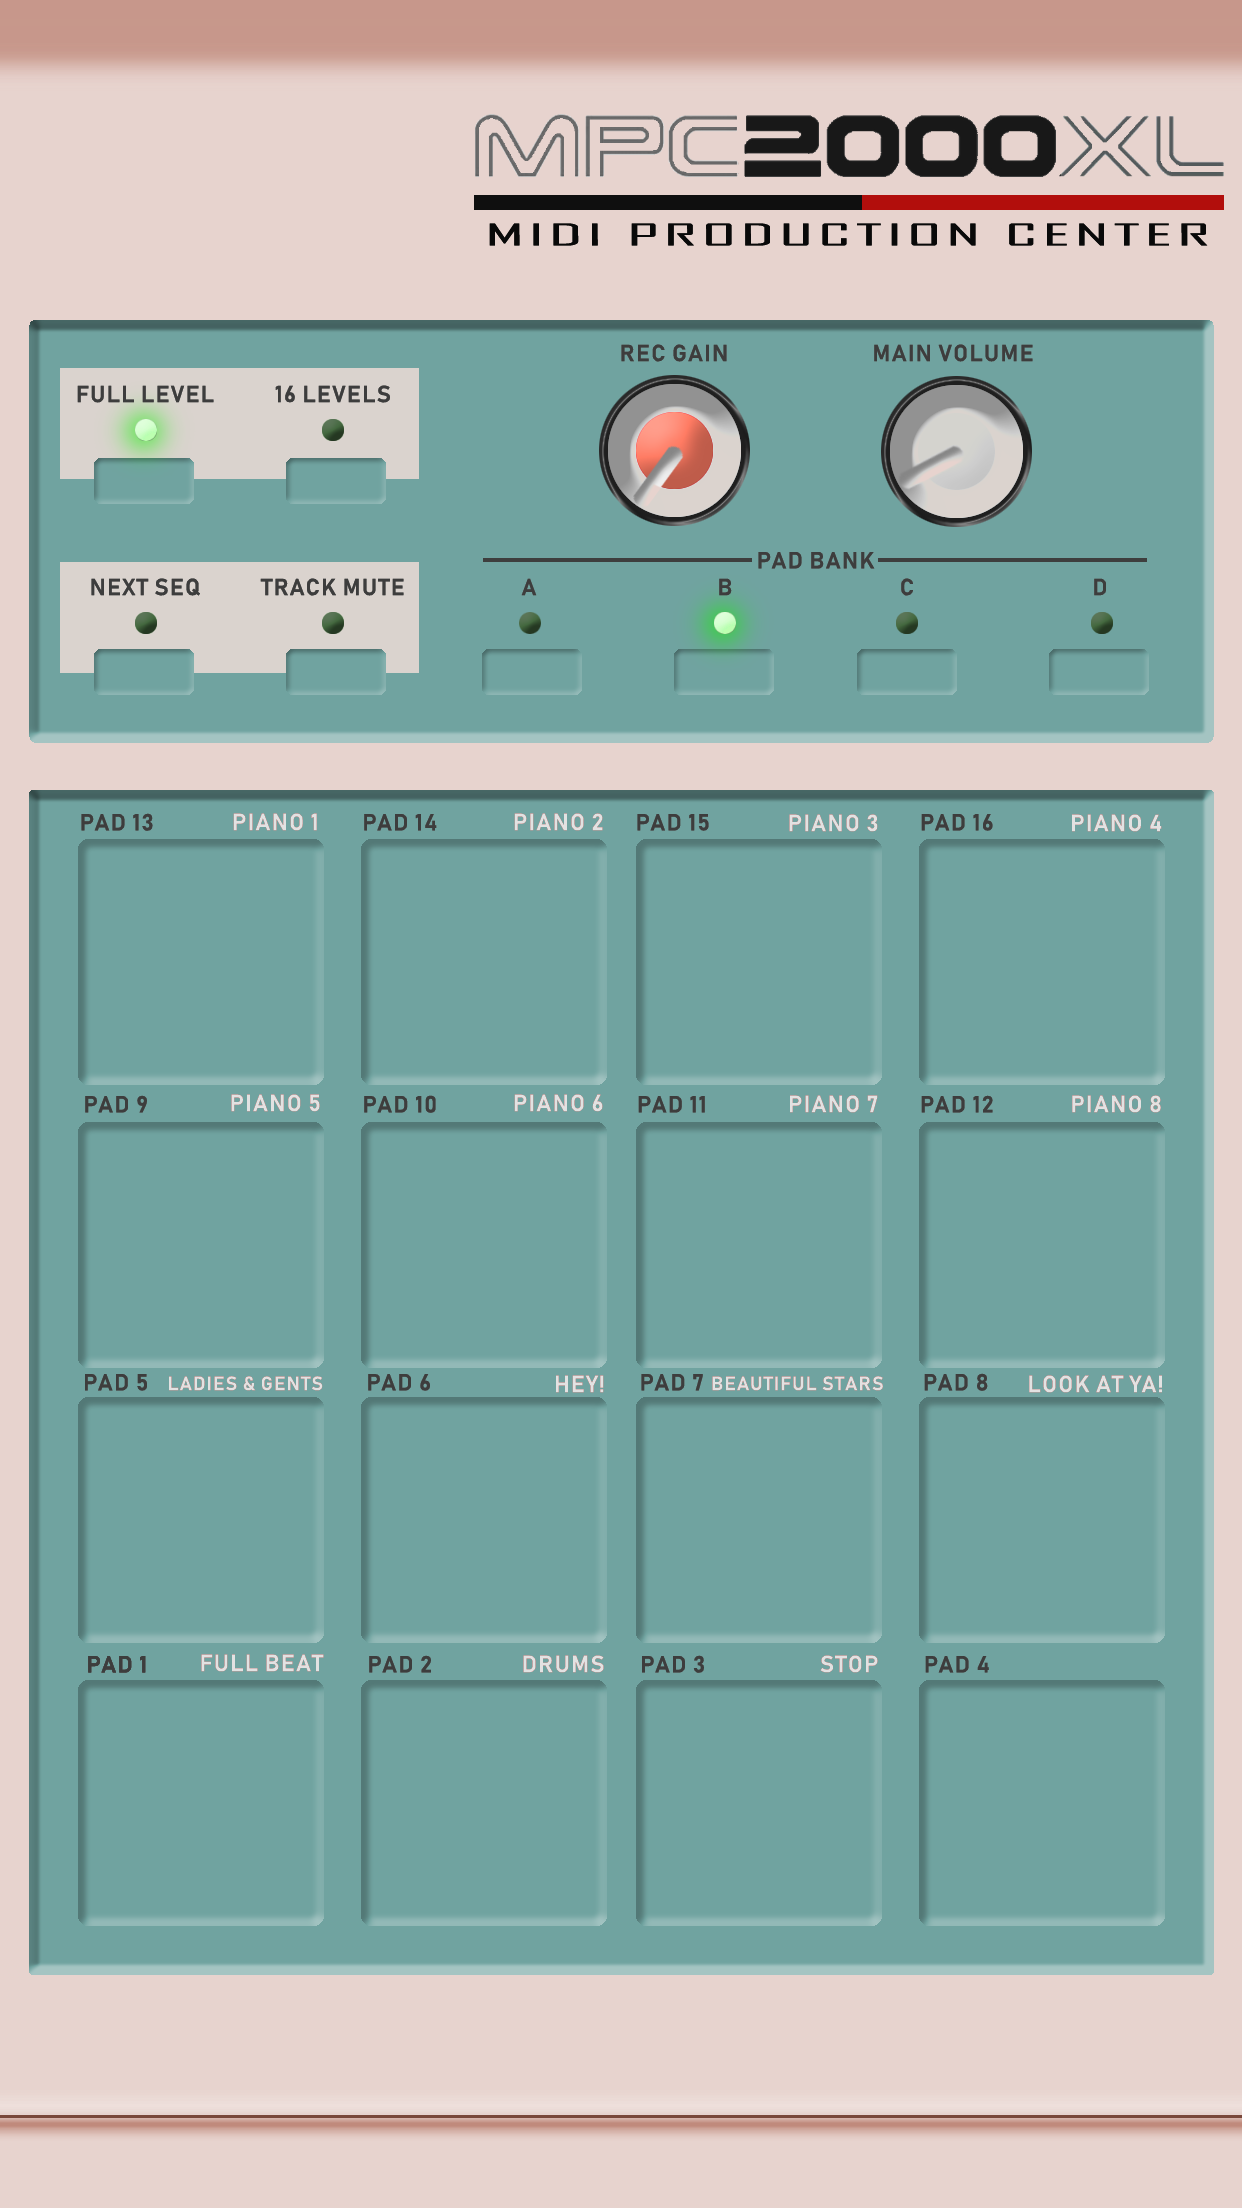
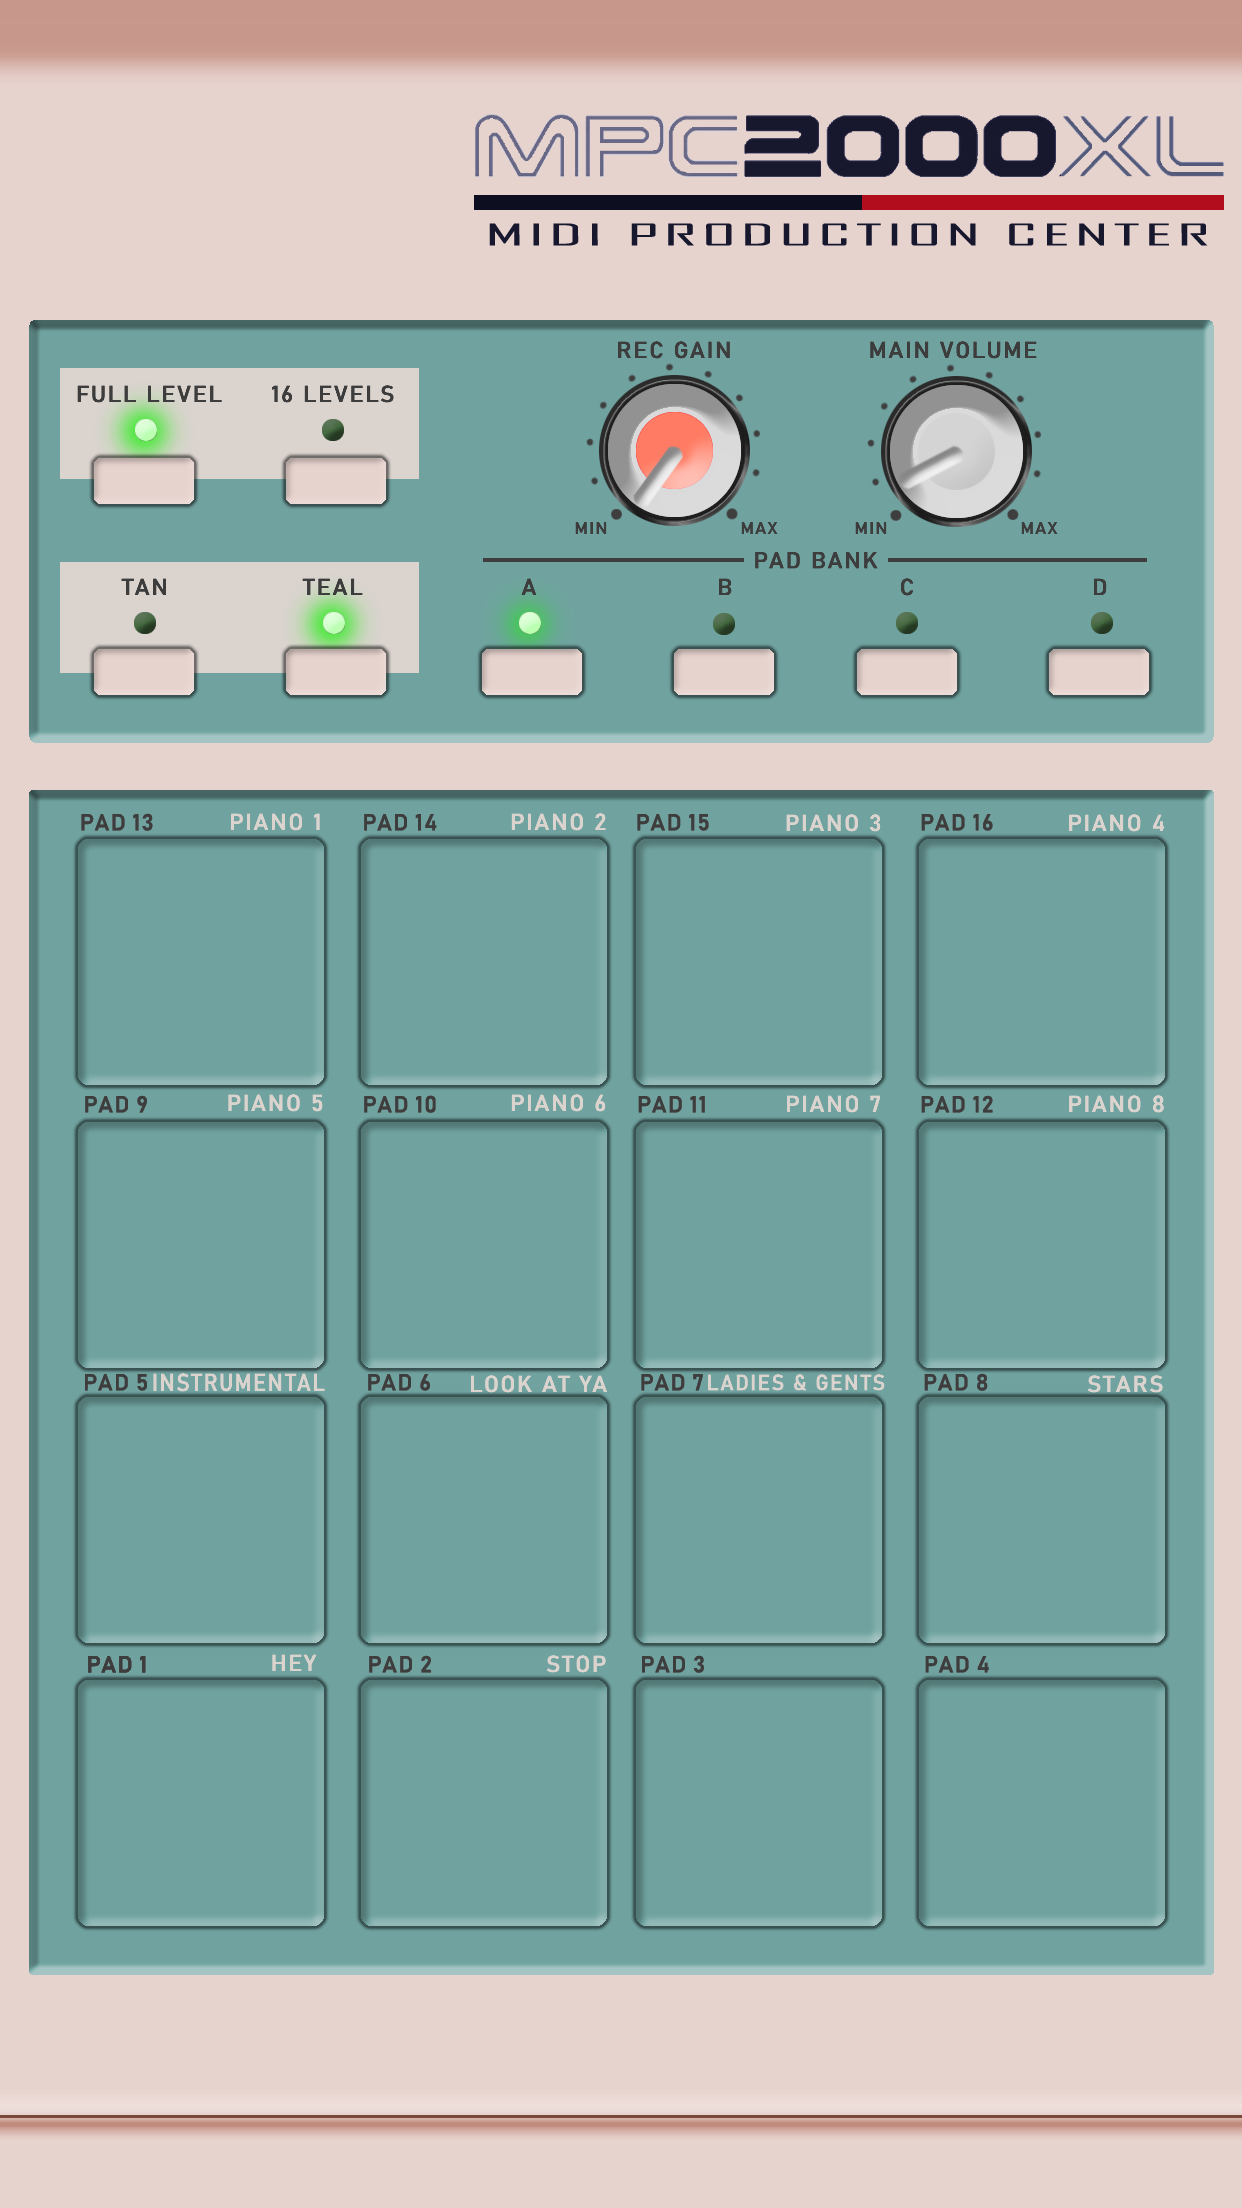
Add files via upload

diff --git a/index.html b/index.html
@@ -88,7 +88,7 @@
 <div class="container">
     <button class="image-button" id="buttonImage1"></button>
     <button class="image-button" id="buttonImage2"></button>
-    <img id="gridImage" src="AKAI MPC 2000 TEAL.png" alt="Grid Image" class="image">
+    <img id="gridImage" src="AKAI MPC 2000.png" alt="Grid Image" class="image">
     <div class="grid-container">
         <button class="grid-item" data-audio-index="0">1</button>
         <button class="grid-item" data-audio-index="1">2</button>
@@ -112,9 +112,9 @@
     let bufferList = [];
     let playingSource = {};
     let activeTouchIds = new Set();
-    let minTapInterval = 25;
+    let minTapInterval = 15;
 
-    const images = ['AKAI MPC 2000 TEAL.png', 'AKAI MPC 2000.png'];
+    const images = ['AKAI MPC 2000.png', 'AKAI MPC 2000 TEAL.png'];
 
     window.addEventListener('touchstart', function() {
         if (!audioContext) {
